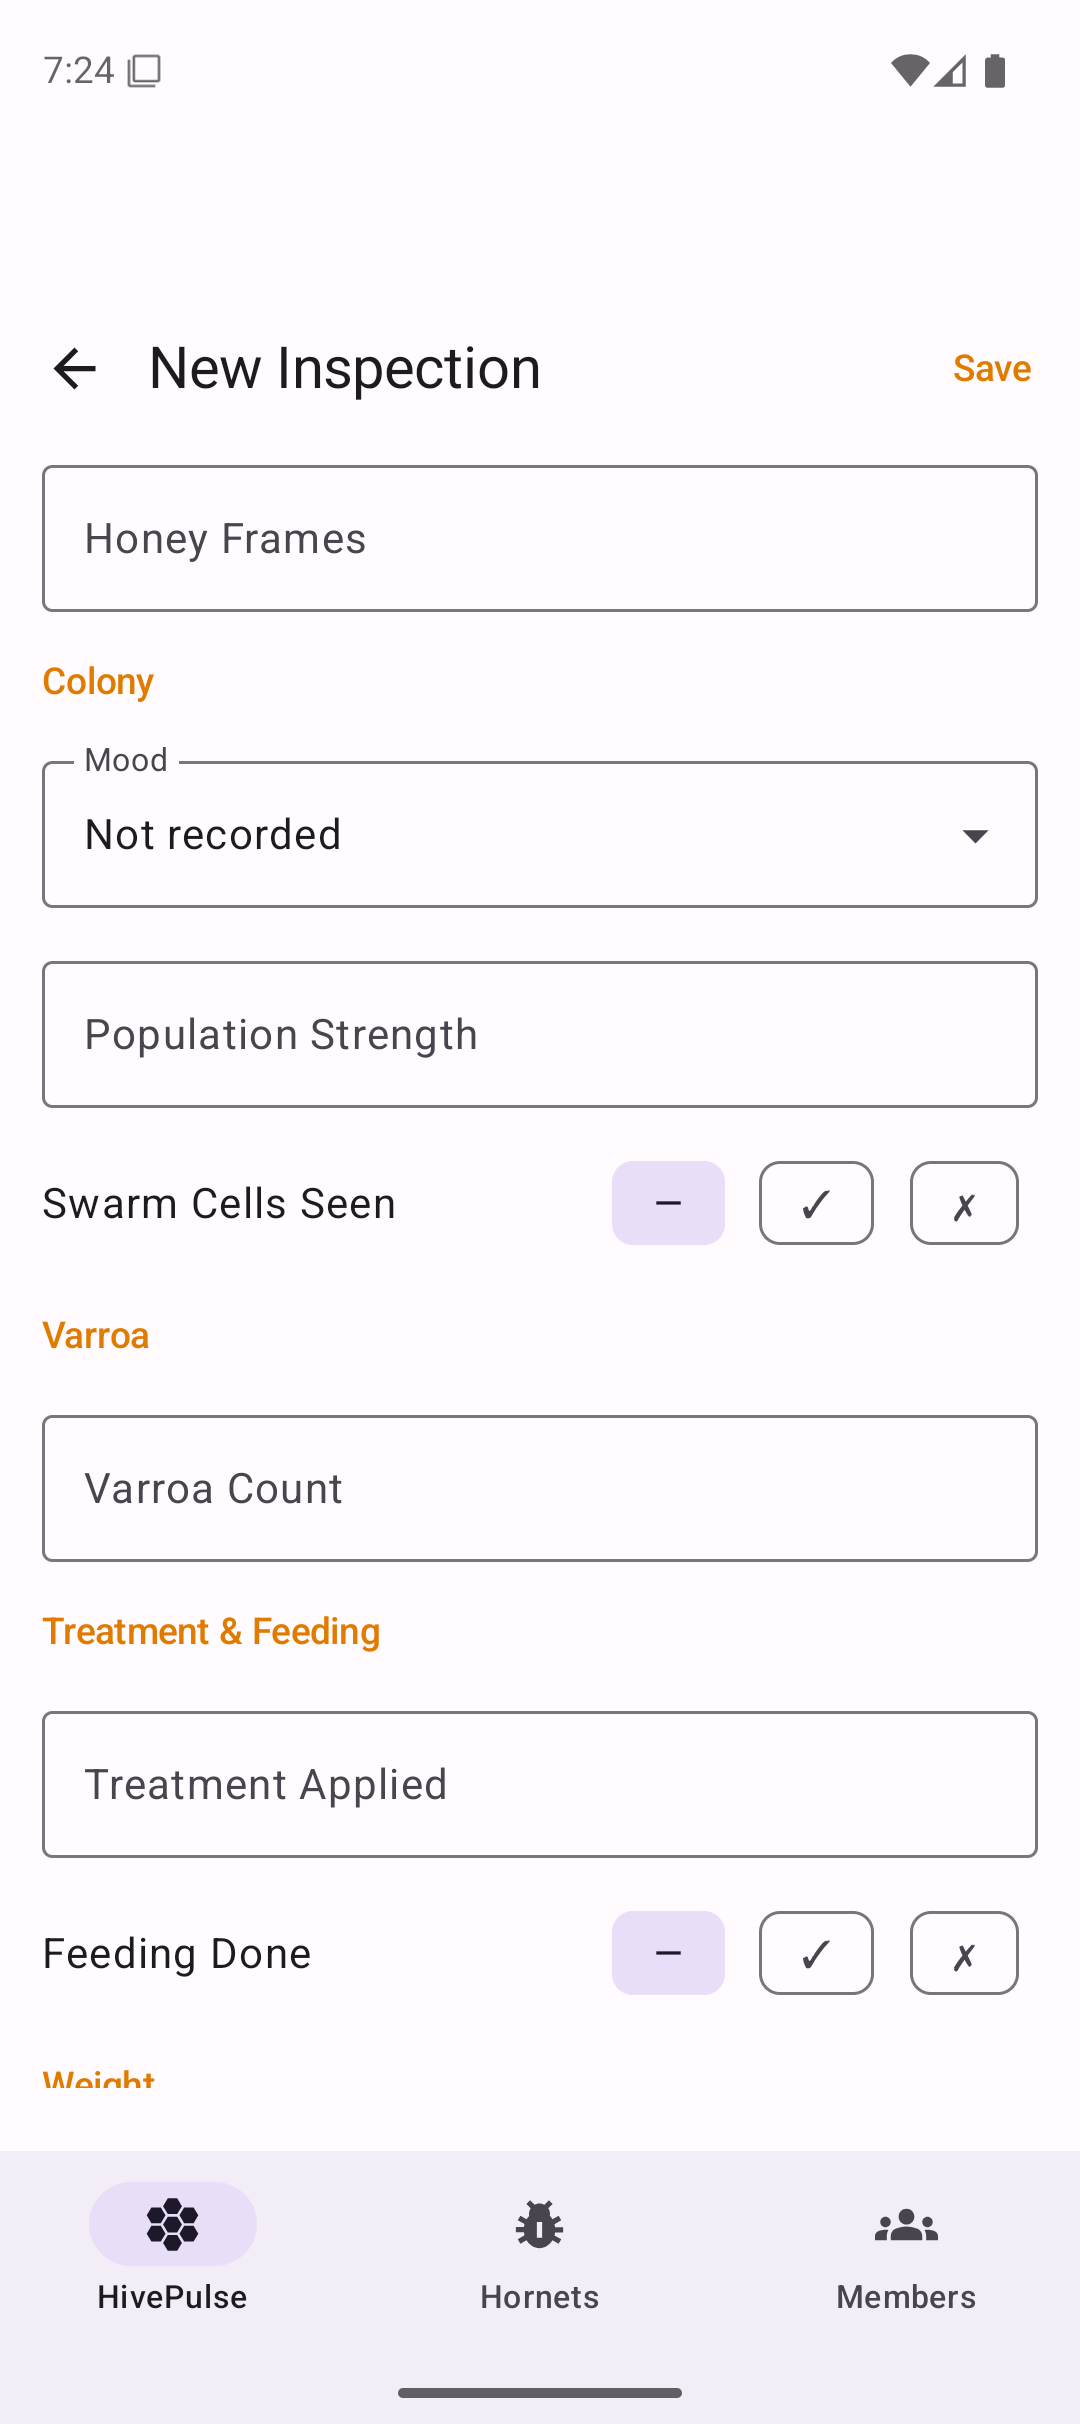
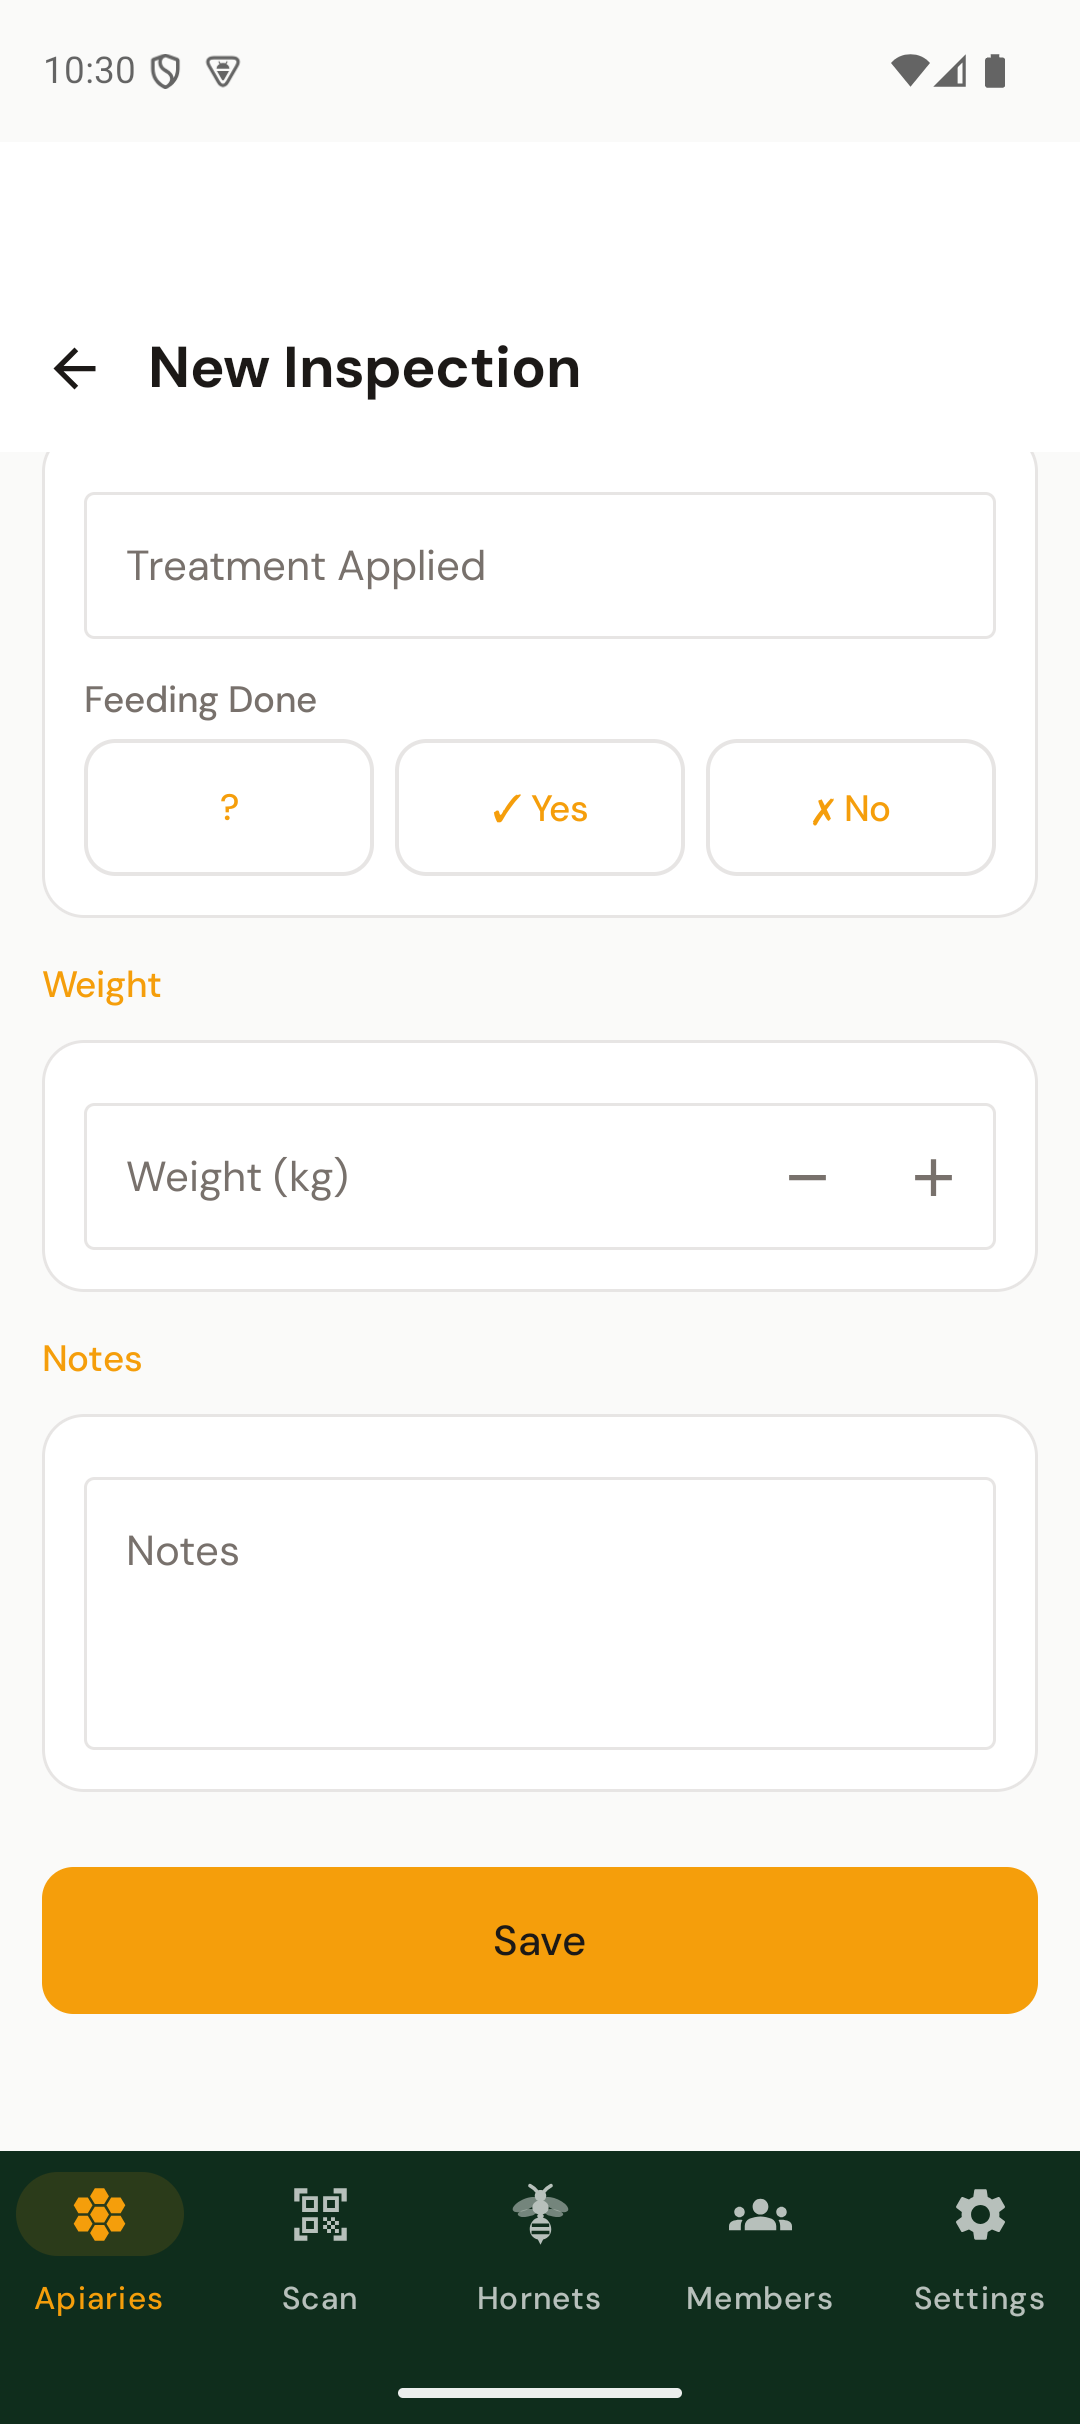
fix(screenshots): die beiden Bilder vom 12. Juni werden wieder aufgenommen
android-inspection-form-bottom und android-qr-scan waren seit Juni von Hand
aufgenommen und zeigten eine Navigationsleiste mit drei Reitern, wo die App
fünf hat. Beide nimmt jetzt das Skript auf.

Die Unterschriften beschrieben, was nicht im Bild war. "Datum und Varroa-Befall
sind sichtbar" kann kein einziger Ausschnitt dieses Formulars zeigen — das Datum
ist der erste Abschnitt, Varroa der fünfte. Und "Overlay mit einem gescannten
Code und dem Bestätigungsblatt" beschrieb eine Oberfläche, die es nicht gab.
Beide Unterschriften jetzt in fünf Sprachen am Bild entlang geschrieben.

Deutsch, Französisch und Spanisch zeigten das Scanner-Bild zweimal auf einer
Seite, Englisch und Polnisch einmal. Jetzt einmal, überall.

Zwei Fundstücke am Skript: login() nahm an, die App starte abgemeldet — beim
zweiten Lauf auf demselben Emulator wartete es auf ein "Sign In", das nie kommt.
Und CameraX blendet die Vorschau ein, statt auf sie zu schneiden, also war das
erste Bild halb durchgeblendet.

KNOWN_GAPS ist damit leer.

Fixes #419

diff --git a/__tests__/HelpScreenshotCoverage.test.ts b/__tests__/HelpScreenshotCoverage.test.ts
@@ -52,13 +52,17 @@ function androidScriptTakes(): Set<string> {
 /**
  * Pictures that are referenced, exist on disk, and no script retakes.
  *
- * All three were captured by hand on 12 June 2026 and sat through the redesign unchanged;
- * `register-form` was the third and this test is why it now has a capture. These two need the
- * Android script driven further than it goes today -- to the foot of the inspection form, and
- * into the QR scanner, which wants a camera -- so they are named here rather than quietly
- * tolerated. Delete an entry when its capture lands; do not add one to make this test pass.
+ * **This list is empty, and that is the point.** Three pictures were captured by hand on
+ * 12 June 2026 and sat through the whole redesign unchanged. `register-form` was the first to be
+ * fixed; `android-inspection-form-bottom` and `android-qr-scan` were the other two and are now
+ * captured by `scripts/android-screenshots.py` (#419). The scanner one needed the viewfinder to
+ * be built first -- the overlay was a Surface with alpha 0 and an empty body, so until #424
+ * there was literally nothing on that screen to photograph.
+ *
+ * Do not add an entry to make this test pass. A name here is a picture the help pages show and
+ * nobody retakes, which is how all three went stale without anyone noticing.
  */
-const KNOWN_GAPS = ['android-inspection-form-bottom', 'android-qr-scan'];
+const KNOWN_GAPS: string[] = [];
 
 describe('the pictures the help pages show', () => {
   it('are all taken by a script, so none of them can go stale unnoticed', () => {
@@ -81,6 +85,12 @@ describe('the pictures the help pages show', () => {
     // place where names go to be ignored.
     const names = referenced();
     for (const gap of KNOWN_GAPS) expect(names).toContain(gap);
+  });
+
+  it('takes the two pictures that were frozen since June 2026', () => {
+    const android = androidScriptTakes();
+    expect(android.has('android-inspection-form-bottom')).toBe(true);
+    expect(android.has('android-qr-scan')).toBe(true);
   });
 
   it('includes the questionnaire, which is a page of its own and needed its own capture', () => {

diff --git a/app/[locale]/help/[slug]/content/qr-codes.es.tsx b/app/[locale]/help/[slug]/content/qr-codes.es.tsx
@@ -80,7 +80,7 @@ export default function QrCodesContent({ Screenshot }: { Screenshot: typeof Help
             </div>
           </li>
         </ol>
-        <Screenshot src="/docs/screenshots/android-qr-scan.png" caption="Superposición del escáner QR mostrando un código siendo escaneado y la hoja de confirmación" />
+        <Screenshot src="/docs/screenshots/android-qr-scan.png" caption="La pantalla de escaneo — coloca el código QR dentro del marco ámbar" />
       </section>
 
       <section className="help-section">
@@ -108,7 +108,6 @@ export default function QrCodesContent({ Screenshot }: { Screenshot: typeof Help
             </div>
           </li>
         </ol>
-        <Screenshot src="/docs/screenshots/android-qr-scan.png" caption="Escaneando un código QR de colmena en el campo — la colmena se abre instantáneamente" />
       </section>
 
       <section className="help-section">

diff --git a/app/[locale]/help/[slug]/content/qr-codes.fr.tsx b/app/[locale]/help/[slug]/content/qr-codes.fr.tsx
@@ -80,7 +80,7 @@ export default function QrCodesContent({ Screenshot }: { Screenshot: typeof Help
             </div>
           </li>
         </ol>
-        <Screenshot src="/docs/screenshots/android-qr-scan.png" caption="Overlay du scanner QR montrant un code en cours de scan et la feuille de confirmation" />
+        <Screenshot src="/docs/screenshots/android-qr-scan.png" caption="L'écran de scan — placez le code QR dans le cadre ambre" />
       </section>
 
       <section className="help-section">
@@ -108,7 +108,6 @@ export default function QrCodesContent({ Screenshot }: { Screenshot: typeof Help
             </div>
           </li>
         </ol>
-        <Screenshot src="/docs/screenshots/android-qr-scan.png" caption="Scan d'un QR code de ruche sur le terrain — la ruche s'ouvre instantanément" />
       </section>
 
       <section className="help-section">

diff --git a/app/[locale]/help/[slug]/content/qr-codes.de.tsx b/app/[locale]/help/[slug]/content/qr-codes.de.tsx
@@ -80,7 +80,7 @@ export default function QrCodesContent({ Screenshot }: { Screenshot: typeof Help
             </div>
           </li>
         </ol>
-        <Screenshot src="/docs/screenshots/android-qr-scan.png" caption="QR-Scanner-Overlay mit einem gescannten Code und dem Bestätigungsblatt" />
+        <Screenshot src="/docs/screenshots/android-qr-scan.png" caption="Der Scan-Bildschirm — den QR-Code in den amberfarbenen Rahmen halten" />
       </section>
 
       <section className="help-section">
@@ -108,7 +108,6 @@ export default function QrCodesContent({ Screenshot }: { Screenshot: typeof Help
             </div>
           </li>
         </ol>
-        <Screenshot src="/docs/screenshots/android-qr-scan.png" caption="Scannen eines Beuten-QR-Codes im Feld — das Volk öffnet sich sofort" />
       </section>
 
       <section className="help-section">

diff --git a/app/[locale]/help/[slug]/content/inspections.fr.tsx b/app/[locale]/help/[slug]/content/inspections.fr.tsx
@@ -46,7 +46,7 @@ export default function InspectionsContent({ Screenshot }: { Screenshot: typeof 
             </div>
           </li>
         </ol>
-        <Screenshot src="/docs/screenshots/android-inspection-form-bottom.png" caption="Enregistrement d'une visite — les champs date et infestation varroa sont visibles" />
+        <Screenshot src="/docs/screenshots/android-inspection-form-bottom.png" caption="Le bas de la visite — poids, notes et le bouton Enregistrer" />
       </section>
 
       <section className="help-section">

diff --git a/app/[locale]/help/[slug]/content/inspections.es.tsx b/app/[locale]/help/[slug]/content/inspections.es.tsx
@@ -46,7 +46,7 @@ export default function InspectionsContent({ Screenshot }: { Screenshot: typeof 
             </div>
           </li>
         </ol>
-        <Screenshot src="/docs/screenshots/android-inspection-form-bottom.png" caption="Guardando una revisión — los campos fecha e infestación de varroa son visibles" />
+        <Screenshot src="/docs/screenshots/android-inspection-form-bottom.png" caption="El final de la revisión — peso, notas y el botón Guardar" />
       </section>
 
       <section className="help-section">

diff --git a/app/[locale]/help/[slug]/content/inspections.tsx b/app/[locale]/help/[slug]/content/inspections.tsx
@@ -46,7 +46,7 @@ export default function InspectionsContent({ Screenshot }: { Screenshot: typeof 
             </div>
           </li>
         </ol>
-        <Screenshot src="/docs/screenshots/android-inspection-form-bottom.png" caption="Saving an inspection — the date and varroa level fields are visible" />
+        <Screenshot src="/docs/screenshots/android-inspection-form-bottom.png" caption="The foot of the inspection form — weight, notes, and the Save button" />
       </section>
 
       <section className="help-section">

diff --git a/app/[locale]/help/[slug]/content/inspections.de.tsx b/app/[locale]/help/[slug]/content/inspections.de.tsx
@@ -46,7 +46,7 @@ export default function InspectionsContent({ Screenshot }: { Screenshot: typeof 
             </div>
           </li>
         </ol>
-        <Screenshot src="/docs/screenshots/android-inspection-form-bottom.png" caption="Kontrolle speichern — Datum und Varroa-Befall sind sichtbar" />
+        <Screenshot src="/docs/screenshots/android-inspection-form-bottom.png" caption="Das Ende der Kontrolle — Gewicht, Notizen und die Schaltfläche Speichern" />
       </section>
 
       <section className="help-section">

diff --git a/app/[locale]/help/[slug]/content/inspections.pl.tsx b/app/[locale]/help/[slug]/content/inspections.pl.tsx
@@ -46,7 +46,7 @@ export default function InspectionsContent({ Screenshot }: { Screenshot: typeof 
             </div>
           </li>
         </ol>
-        <Screenshot src="/docs/screenshots/android-inspection-form-bottom.png" caption="Zapisywanie przeglądu: widać pola daty i poziomu Varroa" />
+        <Screenshot src="/docs/screenshots/android-inspection-form-bottom.png" caption="Koniec formularza przeglądu — waga, notatki i przycisk Zapisz" />
       </section>
 
       <section className="help-section">

diff --git a/app/[locale]/help/[slug]/content/qr-codes.tsx b/app/[locale]/help/[slug]/content/qr-codes.tsx
@@ -80,7 +80,7 @@ export default function QrCodesContent({ Screenshot }: { Screenshot: typeof Help
             </div>
           </li>
         </ol>
-        <Screenshot src="/docs/screenshots/android-qr-scan.png" caption="QR scanner overlay showing a code being scanned and the confirmation sheet" />
+        <Screenshot src="/docs/screenshots/android-qr-scan.png" caption="The scan screen — hold the QR code inside the amber frame" />
       </section>
 
       <section className="help-section">

diff --git a/app/[locale]/help/[slug]/content/qr-codes.pl.tsx b/app/[locale]/help/[slug]/content/qr-codes.pl.tsx
@@ -80,7 +80,7 @@ export default function QrCodesContent({ Screenshot }: { Screenshot: typeof Help
             </div>
           </li>
         </ol>
-        <Screenshot src="/docs/screenshots/android-qr-scan.png" caption="Nakładka skanera QR ze skanowanym kodem i arkuszem potwierdzenia" />
+        <Screenshot src="/docs/screenshots/android-qr-scan.png" caption="Ekran skanowania — umieść kod QR w bursztynowej ramce" />
       </section>
 
       <section className="help-section">

diff --git a/scripts/android-screenshots.py b/scripts/android-screenshots.py
@@ -300,6 +300,13 @@ def reveal_email_form(timeout=12):
 
 
 def login():
+    # In CI the app is installed fresh every time, so it always starts signed out. Locally it
+    # does not: a second run on the same emulator opens straight into the apiary list, and
+    # waiting for a "Sign In" that will never come wasted a whole run.
+    if "My Apiaries" in get_ui_dump():
+        print("Already signed in — skipping the login.", flush=True)
+        return
+
     print("Logging in…", flush=True)
     reveal_email_form()
     wait_for("Sign In", timeout=30)
@@ -534,6 +541,74 @@ def capture_inspection_frames():
     time.sleep(0.5)
 
 
+def capture_inspection_form_bottom():
+    """The foot of the form: weight, notes, your own fields and the Save button.
+
+    The help page showed a picture taken by hand on 12 June 2026 (#419) with the old three-tab
+    bar and a Save action in the app bar. Neither exists any more -- Save is a button at the
+    foot of the form, which is precisely why the foot is worth a picture of its own.
+    """
+    print("Capturing: android-inspection-form-bottom", flush=True)
+    dump = get_ui_dump()
+    if "Date" not in dump:
+        tap_node(dump, content_desc="New Inspection")
+        wait_for("Date", timeout=15)
+    for _ in range(10):
+        dump = get_ui_dump()
+        if "Notes" in dump and "Save" in dump:
+            break
+        swipe(540, 1800, 540, 700)
+        time.sleep(0.5)
+    else:
+        raise RuntimeError("never reached the foot of the inspection form")
+    time.sleep(0.8)
+    screenshot("android-inspection-form-bottom")
+    keyevent("KEYCODE_BACK")
+    time.sleep(0.5)
+
+
+def capture_qr_scan():
+    """The scan screen: the viewfinder and the line that says what to aim at.
+
+    This was the other half of #419 and was written off as "wants a camera". It does not: the
+    picture worth showing is the viewfinder and the instruction, both drawn over whatever the
+    camera sees, and the emulator's virtual scene is a camera. Before #424 there was nothing
+    to photograph -- the overlay was a Surface with alpha 0 and an empty body.
+    """
+    print("Capturing: android-qr-scan", flush=True)
+    for _ in range(3):
+        if "My Apiaries" in get_ui_dump():
+            break
+        keyevent("KEYCODE_BACK")
+        time.sleep(0.8)
+    # The tab carries the short label; older builds exposed the long one as a description.
+    dump = get_ui_dump()
+    for attempt in ({"content_desc": "Scan QR code"}, {"text": "Scan"},
+                    {"text": "Scan QR code"}):
+        try:
+            tap_node(dump, **attempt)
+            break
+        except RuntimeError:
+            continue
+    else:
+        raise RuntimeError("could not find the Scan tab")
+    # The permission dialog is the system's, not ours, and it only appears on a cold install.
+    time.sleep(1.5)
+    dump = get_ui_dump()
+    for allow in ("While using the app", "Allow", "ALLOW"):
+        if allow in dump:
+            tap_node(dump, text=allow)
+            time.sleep(1.5)
+            break
+    wait_for("Scan QR Code", timeout=20)
+    # CameraX fades the preview in rather than cutting to it, so a picture taken too early gets
+    # a half-faded frame -- washed out, and it looks like a rendering fault rather than a camera.
+    time.sleep(5)
+    screenshot("android-qr-scan")
+    keyevent("KEYCODE_BACK")
+    time.sleep(0.5)
+
+
 def capture_hive_edit():
     """Hive detail → pencil: name, type, acquisition date and notes."""
     print("Capturing: android-hive-edit", flush=True)
@@ -757,6 +832,7 @@ def main():
     navigate_to_hive_detail()
     capture_inspection_form()
     capture_inspection_frames()
+    capture_inspection_form_bottom()
     capture_hive_edit()
     capture_apiary_edit()
 
@@ -769,6 +845,7 @@ def main():
         capture_beekeeping_year,
         capture_settings_screens,
         capture_hornets_and_members,
+        capture_qr_scan,
     ):
         best_effort(extra)
 
